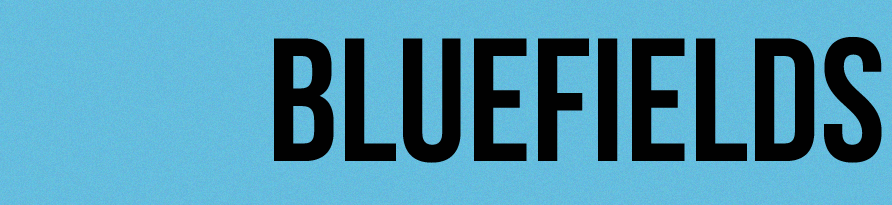
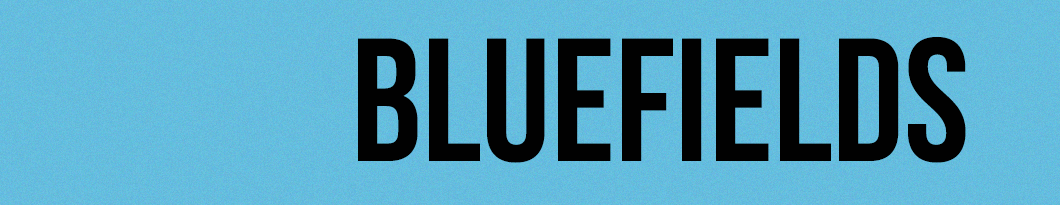
new info pics

Changed region(s): [[0.3027, 0.1756, 0.9989, 0.7902]]

diff --git a/app/assets/stylesheets/pages.css.scss b/app/assets/stylesheets/pages.css.scss
@@ -1,13 +1,13 @@
 #info_bar {
 	height: 235px;
-	width: 1024px;
+	width: 1060px;
 	margin-left: auto;
 	margin-right: auto;
 	margin-bottom: 8px;
 	margin-top:0;
 
 	img {
-		width: 1024px;
+		width: 1060px;
 	}
 
 	.roc_title {
@@ -87,12 +87,12 @@
 	padding-bottom: 7.5em;
 
 	#Bluefields_info {
-		width: 892px;
+		width: 1060px;
 		margin-left: auto;
 		margin-right:auto;
 
 		img {
-			width: 892px;
+			width: 1060px;
 			margin-top: 15px;
 		}
 	}
@@ -141,13 +141,13 @@
 	padding-bottom: 7.5em;
 
 	#Parkland_info {
-		width: 1024px;
+		width: 1060px;
 		margin-bottom: 8px;
 		margin-left: auto;
 		margin-right: auto;
 
 		img {
-			width: 1024px;
+			width: 1060px;
 			margin-top: 15px;
 		}
 	}
@@ -256,14 +256,14 @@
 	padding-bottom: 7.5em;
 
 	#SOTB_info {
-		width: 892px;
+		width: 1060px;
 		margin-bottom: 8px;
 		margin-left: auto;
 		margin-right: auto;
 
 		img {
 			margin-top: 15px;
-			width: 892px;
+			width: 1060px;
 		}
 		
 	}
